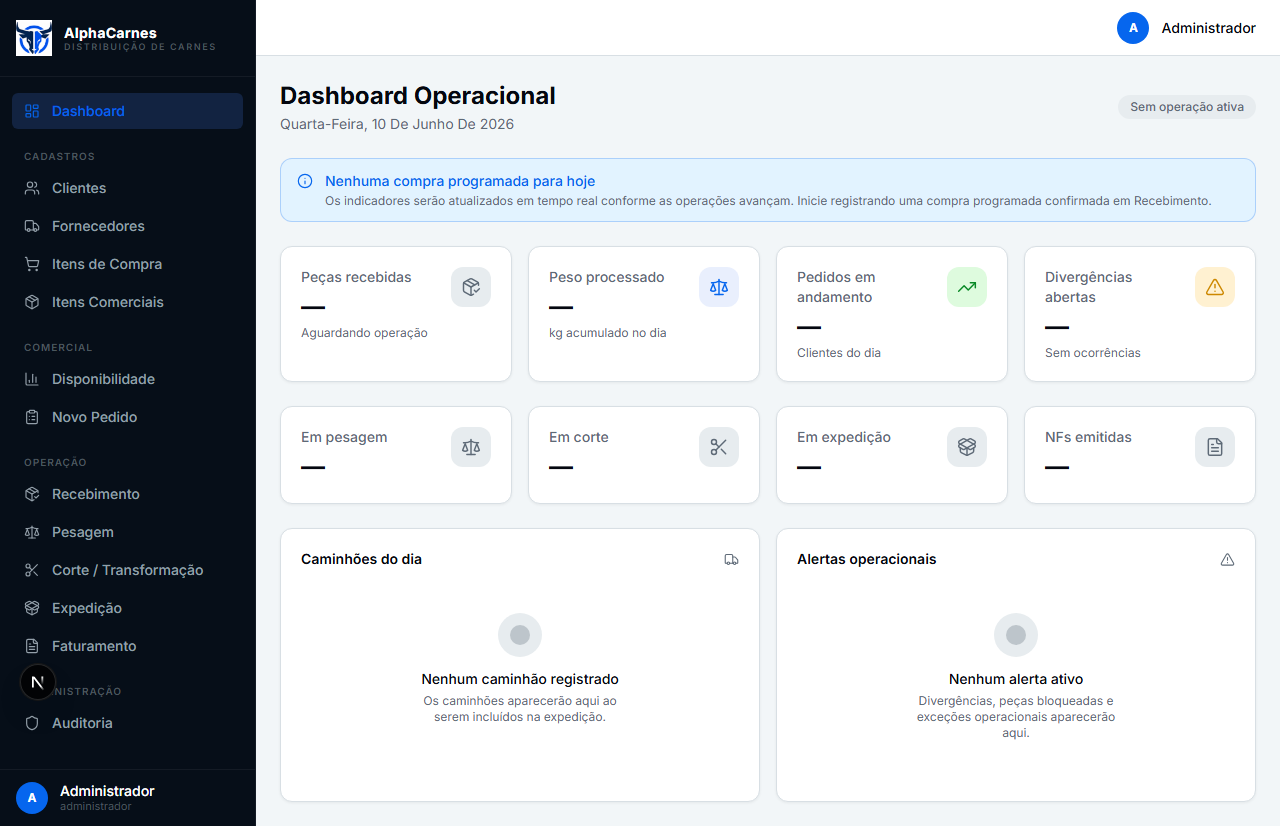
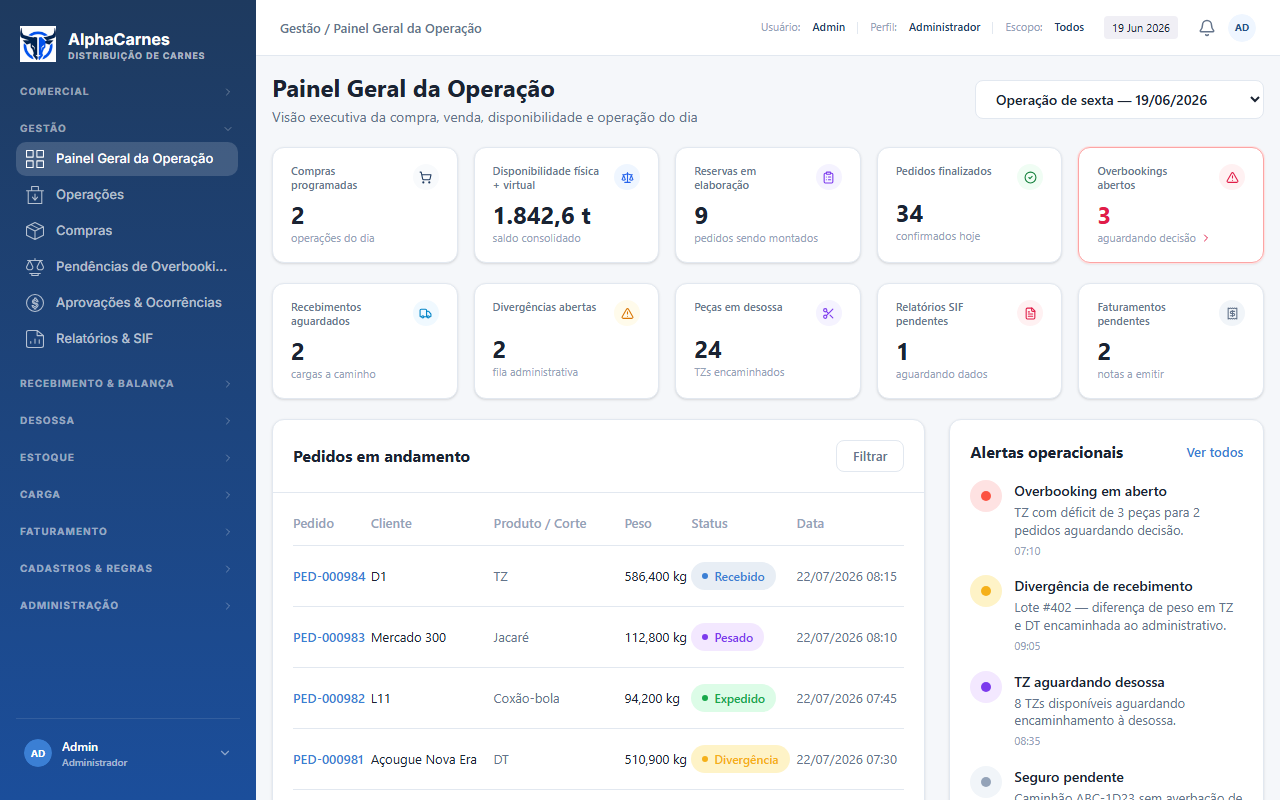
docs(evidencias): capturas reais do protótipo Onda 2 shell
Substitui PNGs falsos (cópias de src/imports) por screenshots do Vite
em feature/completude-v1.1 (1280×800) e documenta origem no README.

diff --git a/docs/evidencias/onda2-shell/README.md b/docs/evidencias/onda2-shell/README.md
@@ -11,8 +11,8 @@ Viewport: **1280×800** (Playwright default do projeto).
 | `01-login.png` | Playwright `e2e/shell-ds.spec.ts` — teste "login exibe painel institucional…" | `npm run e2e:shell` |
 | `02-shell-dashboard.png` | Playwright — teste "captura evidencias do shell…" | `npm run e2e:shell` |
 | `03-shell-sidebar-9-grupos.png` | Playwright — screenshot da sidebar no dashboard | `npm run e2e:shell` |
-| `referencia-prototipo/01-login-prototipo.png` | `alpha-carnes-prototipo/src/imports/01-login.png` | cópia versionada |
-| `referencia-prototipo/02-shell-prototipo.png` | `alpha-carnes-prototipo/src/imports/02-dashboard.png` | cópia versionada |
+| `referencia-prototipo/01-login-prototipo.png` | Protótipo Vite em execução — `/login` | ver seção abaixo |
+| `referencia-prototipo/02-shell-prototipo.png` | Protótipo Vite — `/gestao/dashboard` (sidebar 9 grupos) | ver seção abaixo |
 
 ## Divergências autorizadas (plano Onda 2)
 
@@ -24,7 +24,25 @@ Viewport: **1280×800** (Playwright default do projeto).
 - **Decisão 30** — `faturamento` vê `GESTÃO` só com `Relatórios & SIF`; `compras` recupera `Pendências de Overbooking`.
 - **Decisão 31** — itens visíveis sem atribuição na matriz (`compras`: 11; `diretoria`: 3).
 
-## Como regenerar
+## Referência do protótipo (captura real)
+
+Origem: repositório `F:/Projetos/alpha-carnes-prototipo`, branch **`feature/completude-v1.1`**.
+
+1. Subir o dev server: `npm run dev -- --host 127.0.0.1 --port 5173`
+2. Viewport **1280×800** (Playwright Chromium)
+3. Capturas:
+   - `http://127.0.0.1:5173/login` → `referencia-prototipo/01-login-prototipo.png`
+   - Login via botão **Acessar Sistema** → `http://127.0.0.1:5173/gestao/dashboard` → `referencia-prototipo/02-shell-prototipo.png`
+
+Script auxiliar (com o protótipo rodando):
+
+```bash
+cd app/frontend && node scripts/capture-prototipo-ref.mjs
+```
+
+Última captura: **2026-07-25**. Não usar `src/imports/*.png` — são screenshots antigos da jornada E2E da app, não do protótipo atual.
+
+## Como regenerar (app Next.js)
 
 ```bash
 docker compose up -d postgres
